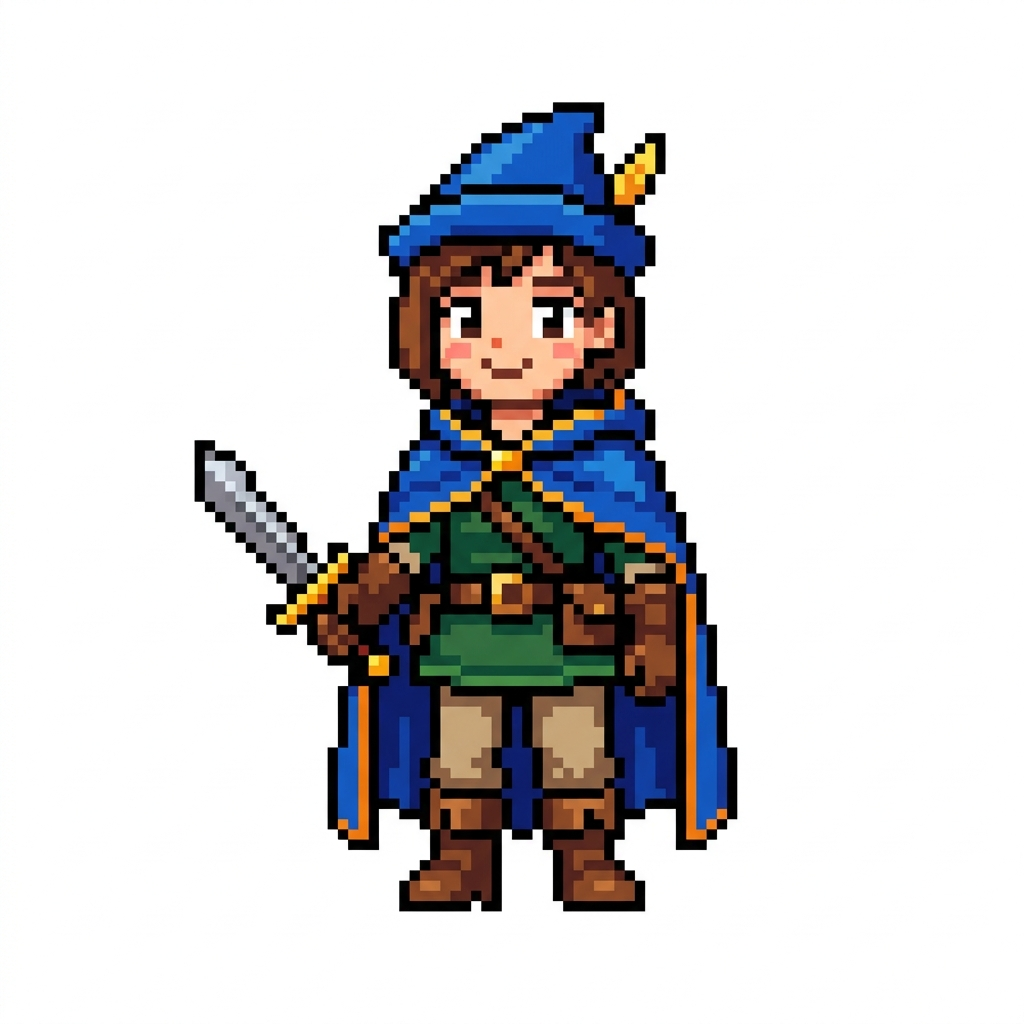
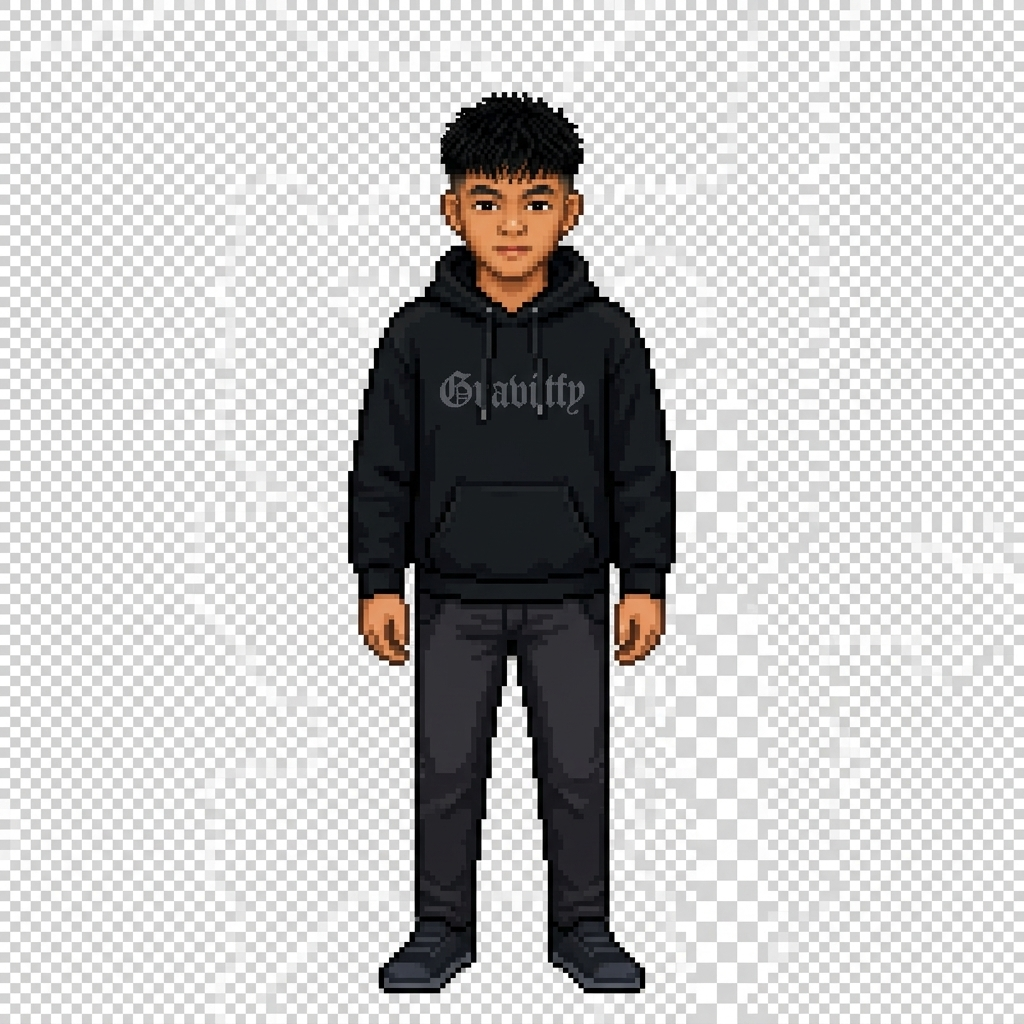
Update game with custom Fikri sprite, new dialogue flow, and keyboard controls (E, Q, R)

diff --git a/script.js b/script.js
@@ -1,38 +1,97 @@
 const dialogueText = document.getElementById('dialogue-text');
 const dialogues = [
-    "Selamat datang di dunia pixel! Apakah kamu siap untuk petualangan baru hari ini?",
-    "Gunakan keahlianmu untuk menjelajahi pulau terapung yang penuh misteri ini.",
-    "Banyak rahasia yang tersembunyi di balik reruntuhan kuno itu...",
-    "Hati-hati, malam akan segera tiba. Monster pixel biasanya muncul saat itu!"
+    // 1. Opening
+    "...",
+    "Oh? Someone just entered this world.",
+    "Welcome, traveler.",
+    
+    // 2. Identity Reveal
+    "You're probably wondering who I am.",
+    "My name is Fikri... but some call me IS4GI.",
+    "Just a player trying to level up in life.",
+    
+    // 3. Background
+    "Currently a 4th semester student.",
+    "Balancing between study... and real-world grinding.",
+    "Not easy, but that's part of the game.",
+    
+    // 4. Role / Class
+    "Class: Front-End Developer.",
+    "Special ability: crafting aesthetic and clean UI.",
+    "I turn ideas into interactive experiences.",
+    
+    // 5. Tech Stack
+    "Inventory loaded...",
+    "HTML, CSS, JavaScript...",
+    "React, Next.js, Flutter...",
+    "Still upgrading every day.",
+    
+    // 6. Current Quest
+    "Current quest:",
+    "Building a stable attendance app.",
+    "Exploring UI design and pixel aesthetics.",
+    "Trying to create something meaningful.",
+    
+    // 7. Philosophy
+    "I believe progress > perfection.",
+    "Every bug is just another challenge.",
+    "And every project... is a new adventure.",
+    
+    // 8. Closing
+    "So...",
+    "Are you ready to explore my world?",
+    "Press [R] to restart or just enjoy the view. Let's build something great!"
 ];
 
 let currentDialogueIndex = 0;
 let isTyping = false;
+let typeTimeout;
 
-function typeWriter(text, i, fnCallback) {
+function typeWriter(text, i) {
     if (i < text.length) {
-        dialogueText.innerHTML = text.substring(0, i + 1) + '<span aria-hidden="true"></span>';
+        dialogueText.innerHTML = text.substring(0, i + 1) + '<span class="cursor" aria-hidden="true"></span>';
         isTyping = true;
         
-        // Random slight delay for more natural feel
-        const delay = Math.random() * 50 + 30;
+        const delay = Math.random() * 30 + 20; // Faster typing for better feel
         
-        setTimeout(() => {
-            typeWriter(text, i + 1, fnCallback)
+        typeTimeout = setTimeout(() => {
+            typeWriter(text, i + 1)
         }, delay);
-    } else if (typeof fnCallback == 'function') {
+    } else {
         isTyping = false;
-        setTimeout(fnCallback, 700);
     }
 }
 
 function startDialogue(index) {
-    if (isTyping) return;
-    
-    const text = dialogues[index];
-    typeWriter(text, 0, () => {
-        // Dialogue finished typing
-    });
+    clearTimeout(typeTimeout);
+    isTyping = false;
+    currentDialogueIndex = index;
+    typeWriter(dialogues[index], 0);
+}
+
+function nextDialogue() {
+    if (isTyping) {
+        // Skip typing animation
+        clearTimeout(typeTimeout);
+        dialogueText.innerHTML = dialogues[currentDialogueIndex];
+        isTyping = false;
+    } else {
+        currentDialogueIndex++;
+        if (currentDialogueIndex < dialogues.length) {
+            startDialogue(currentDialogueIndex);
+        }
+    }
+}
+
+function skipAll() {
+    clearTimeout(typeTimeout);
+    currentDialogueIndex = dialogues.length - 1;
+    startDialogue(currentDialogueIndex);
+}
+
+function restartGame() {
+    currentDialogueIndex = 0;
+    startDialogue(0);
 }
 
 // Initial dialogue
@@ -40,11 +99,14 @@ startDialogue(0);
 
 // Interaction
 document.addEventListener('keydown', (e) => {
-    if (e.key === 'e' || e.key === 'E' || e.key === 'Enter' || e.key === ' ') {
-        if (!isTyping) {
-            currentDialogueIndex = (currentDialogueIndex + 1) % dialogues.length;
-            startDialogue(currentDialogueIndex);
-        }
+    const key = e.key.toLowerCase();
+    
+    if (key === 'e' || key === ' ' || key === 'enter') {
+        nextDialogue();
+    } else if (key === 'q') {
+        skipAll();
+    } else if (key === 'r') {
+        restartGame();
     }
 });
 
@@ -56,12 +118,12 @@ document.addEventListener('keydown', (e) => {
     if (e.key === 'ArrowLeft') {
         posX = Math.max(10, posX - 2);
         player.style.left = posX + '%';
-        player.style.transform = 'translateX(-50%) scaleX(-1)'; // Flip
+        player.style.transform = 'translateX(-50%) scaleX(-1)';
     } else if (e.key === 'ArrowRight') {
         posX = Math.min(90, posX + 2);
         player.style.left = posX + '%';
-        player.style.transform = 'translateX(-50%) scaleX(1)'; // Normal
+        player.style.transform = 'translateX(-50%) scaleX(1)';
     }
 });
 
-console.log("Pixel World Initialized. Press [E] or Arrow Keys to interact.");
+console.log("Fikri's Adventure Initialized. [E] Next, [Q] Skip, [R] Restart.");

diff --git a/index.html b/index.html
@@ -29,8 +29,9 @@
         </section>
 
         <footer class="dialogue-box">
-            <div class="speaker-name">PENGEMBARA</div>
-            <p id="dialogue-text">Selamat datang di dunia pixel! Apakah kamu siap untuk petualangan baru hari ini?</p>
+            <div class="speaker-name">FIKRI</div>
+            <p id="dialogue-text">...</p>
+            <div class="controls-hint">[E] Next | [Q] Skip | [R] Restart</div>
             <div class="blinking-cursor">▼</div>
         </footer>
     </main>

diff --git a/style.css b/style.css
@@ -173,6 +173,15 @@ body {
     margin-top: 10px;
 }
 
+.controls-hint {
+    position: absolute;
+    bottom: 10px;
+    left: 20px;
+    font-size: 8px;
+    color: rgba(255, 255, 255, 0.5);
+    letter-spacing: 1px;
+}
+
 .blinking-cursor {
     position: absolute;
     bottom: 15px;
